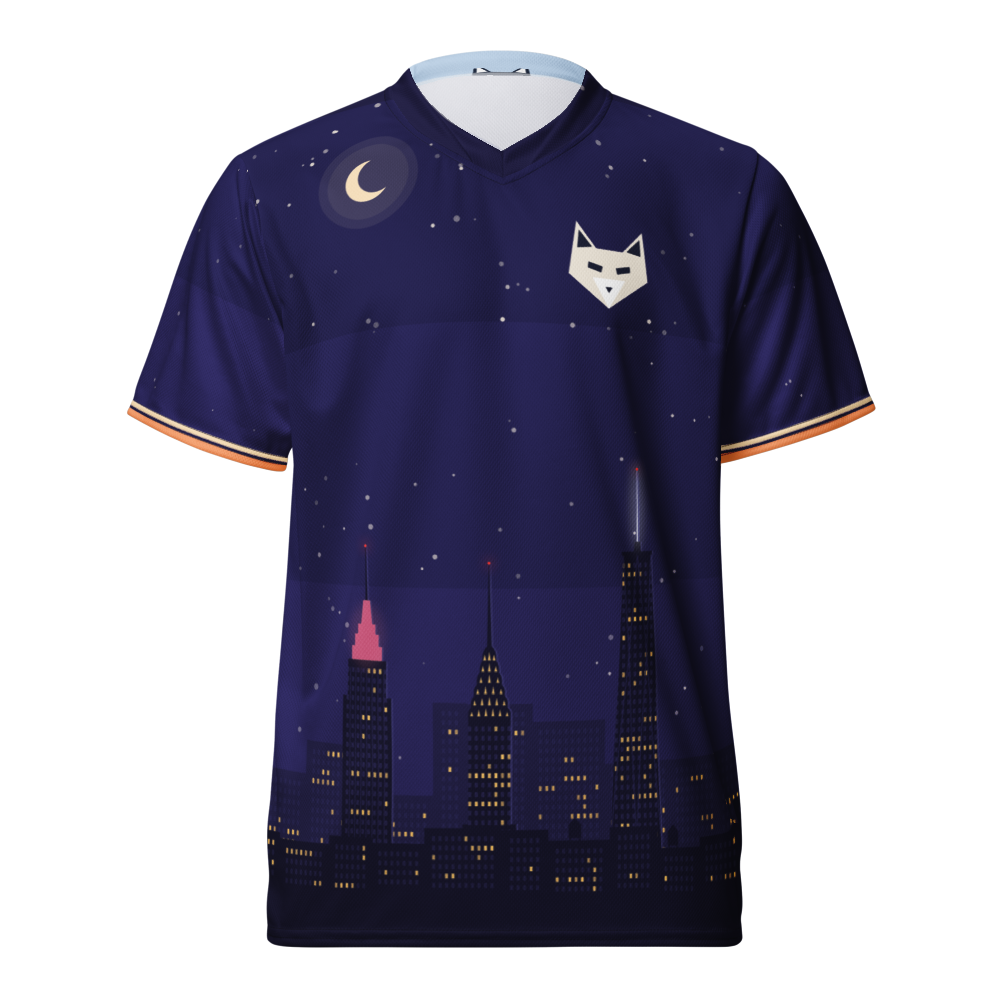
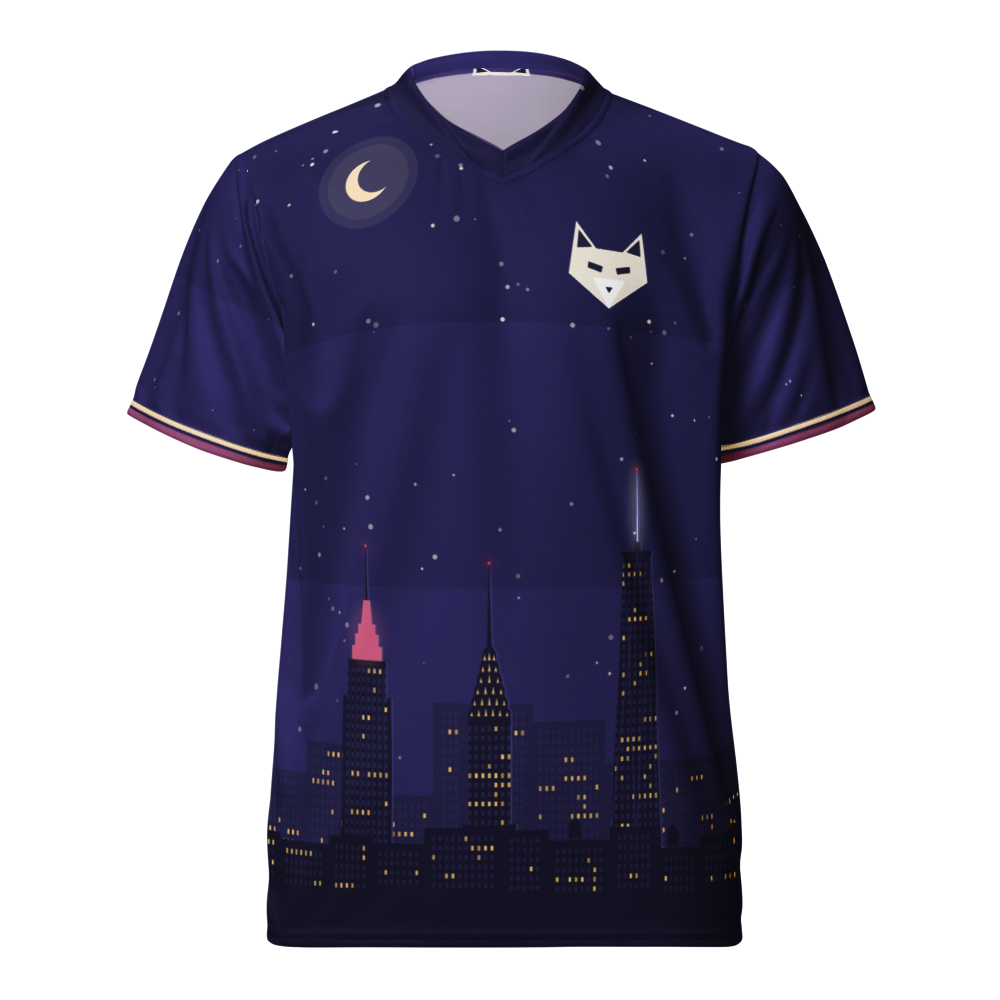
Two Skies photos and copy for the new back

diff --git a/src/lib/productPages.ts b/src/lib/productPages.ts
@@ -148,7 +148,7 @@ export const PRODUCT_COPY: Record<string, string> = {
   '436883186': 'Foxy with "miss you too" underneath. Half of a pair with the Miss You sticker: send one, keep one.',
   '436883173': 'Foxy with "miss you" underneath. Half of a pair with the Miss You Too sticker: send one, keep one.',
   '436883154': 'A small Foxy on the chest, and an airmail envelope across the back over WORTH EVERY MILE. The hoodie to steal on a visit, and to send home smelling like you.',
-  '480534575': 'Two skies, two cities, one shirt. The front is New York at night: the Empire State lit pink for the two of you, the Chrysler crown and One World Trade over a city of lit windows. The back is London at dawn, with Big Ben in front of the rising sun, the Shard and the London Eye. Evening for one of you, morning for the other.',
+  '480534575': 'Two skies, two cities, one shirt. The front is New York at night: the Empire State lit pink for the two of you, the Chrysler crown and One World Trade over a city of lit windows. The back is London at dawn, the sky warming from that same night into sunrise, with Big Ben in front of the sun, the Shard, the Gherkin and the London Eye. Evening for one of you, morning for the other.',
   '479940069': 'A black kit with one bone-white web spun out from an orange fox crest, and a sleek orange spider dropping in from the collar with a heart on its back. Orange cuffs, and an orange 143 on the back. For the Halloween you spend apart, or the one you finally spend together.',
   '479940099': 'Cream at the chest, orange through the middle and sunny yellow at the hem, in crisp chevrons piped in black that follow the V-neck, like a piece of candy corn. A black fox crest on the front and a black 143 on the back.',
   '479940104': 'A Christmas jumper knitted into a football kit. Pine green with a knit texture, and a cream yoke across the chest where two foxes face a heart: the two of you, miles apart. Snowflakes and hearts run round the sleeves and the hem.',
